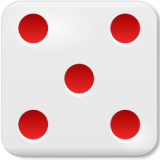
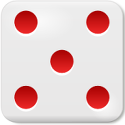
Additions: - added images new images to the Splash Screen UI. - the user is now able to simulate a die roll on the Gameplay Screen UI. - the user is now able to change maps on the Gameplay Screen UI.

diff --git a/src/journeythrougheurope/ui/JourneyThroughEuropeUI.java b/src/journeythrougheurope/ui/JourneyThroughEuropeUI.java
@@ -91,10 +91,9 @@ public class JourneyThroughEuropeUI extends Pane {
     private VBox leftPanel;
     private StackPane gamePanel;
     private Pane canvas;
-    private VBox gameOptionPane;
     private Image gameGridImage;
     private ImageView gameGridImageView;
-    private Label gameGridImageLabel;
+    private Label gameGridImageLabels[];
 
     private Button playerName;
     private StackPane cardPanel;
@@ -107,7 +106,7 @@ public class JourneyThroughEuropeUI extends Pane {
     private Button gridButtons[];
 
     private VBox diePanel;
-    private Button die;
+    private Button btnDie;
 
     //Stats Screen
     private HBox gameHistoryToolbar;
@@ -126,7 +125,9 @@ public class JourneyThroughEuropeUI extends Pane {
 
     public enum JourneyThroughEuropeUIState {
 
-        SPLASH_SCREEN_STATE, PLAY_GAME_STATE, VIEW_GAME_HISTORY_STATE, VIEW_ABOUT_STATE, GAME_SETUP_STATE
+        SPLASH_SCREEN_STATE, PLAY_GAME_STATE, VIEW_GAME_HISTORY_STATE, VIEW_ABOUT_STATE, GAME_SETUP_STATE,
+        GRID1_IMAGE_STATE, GRID2_IMAGE_STATE, GRID3_IMAGE_STATE, GRID4_IMAGE_STATE, DIE1_IMAGE_STATE, DIE2_IMAGE_STATE,
+        DIE3_IMAGE_STATE, DIE4_IMAGE_STATE, DIE5_IMAGE_STATE, DIE6_IMAGE_STATE
     }
 
     public JourneyThroughEuropeUI() {
@@ -225,10 +226,10 @@ public class JourneyThroughEuropeUI extends Pane {
         splashScreenImageLabel = new Label();
         splashScreenImageLabel.setGraphic(splashScreenImageView);
 
-        btnStart = new Button("Start");
-        btnLoad = new Button("Load");
-        btnAbout = new Button("About");
-        btnExit = new Button("Exit");
+        btnStart = initButton(JourneyThroughEuropePropertyType.START_IMAGE_NAME);
+        btnLoad = initButton(JourneyThroughEuropePropertyType.LOAD_IMG_NAME);
+        btnAbout = initButton(JourneyThroughEuropePropertyType.ABOUT_SPLASH_IMG_NAME);
+        btnExit = initButton(JourneyThroughEuropePropertyType.EXIT_IMG_NAME);
 
         btnStart.setOnAction(new EventHandler<ActionEvent>() {
 
@@ -346,18 +347,15 @@ public class JourneyThroughEuropeUI extends Pane {
 
     private void initGameScreen() {
 
-        PropertiesManager props = PropertiesManager.getPropertiesManager();
-        String gameGridImagePath = props.getProperty(JourneyThroughEuropePropertyType.GAME_GRID1_IMAGE_NAME);
-
-        gameGridImage = loadImage(gameGridImagePath);
-        gameGridImageView = new ImageView(gameGridImage);
-
-        gameGridImageLabel = new Label();
-        gameGridImageLabel.setGraphic(gameGridImageView);
+        gameGridImageLabels = new Label[4];
+        gameGridImageLabels[0] = initLabel(JourneyThroughEuropePropertyType.GAME_GRID1_IMAGE_NAME);
+        gameGridImageLabels[1] = initLabel(JourneyThroughEuropePropertyType.GAME_GRID2_IMAGE_NAME);
+        gameGridImageLabels[2] = initLabel(JourneyThroughEuropePropertyType.GAME_GRID3_IMAGE_NAME);
+        gameGridImageLabels[3] = initLabel(JourneyThroughEuropePropertyType.GAME_GRID4_IMAGE_NAME);
 
         gamePanel = new StackPane();
         gamePanel.setStyle("-fx-border-color:black;" + "-fx-border-width: 2px;");
-        gamePanel.getChildren().add(gameGridImageLabel);
+        gamePanel.getChildren().add(gameGridImageLabels[0]);
         //gameGridImageView.fitWidthProperty().bind(gamePanel.widthProperty());
         //gameGridImageView.fitHeightProperty().bind(gamePanel.heightProperty());
 
@@ -417,7 +415,7 @@ public class JourneyThroughEuropeUI extends Pane {
 
         VBox mapNumberPanel = new VBox();
         gridButtonsSecondColumnBox.setAlignment(Pos.CENTER);
-        mapNumberPanel.setPadding(new Insets(60,5,0, 0));
+        mapNumberPanel.setPadding(new Insets(60, 5, 0, 0));
         mapNumberPanel.setSpacing(30.0);
         Label lblOneThroughFour = initLabel(JourneyThroughEuropePropertyType.F4_IMAGE_NAME);
         Label lblFiveThroughEight = initLabel(JourneyThroughEuropePropertyType.F8_IMAGE_NAME);
@@ -428,9 +426,44 @@ public class JourneyThroughEuropeUI extends Pane {
 
         gridButtons = new Button[4];
         gridButtons[0] = initButton(JourneyThroughEuropePropertyType.GRID1_BUTTON_IMAGE_NAME);
+        gridButtons[0].setOnAction(new EventHandler<ActionEvent>() {
+
+            @Override
+            public void handle(ActionEvent event) {
+
+                eventHandler.respondToChangeGridRequest(JourneyThroughEuropeUIState.GRID1_IMAGE_STATE);
+            }
+        });
+
         gridButtons[1] = initButton(JourneyThroughEuropePropertyType.GRID2_BUTTON_IMAGE_NAME);
+        gridButtons[1].setOnAction(new EventHandler<ActionEvent>() {
+
+            @Override
+            public void handle(ActionEvent event) {
+
+                eventHandler.respondToChangeGridRequest(JourneyThroughEuropeUIState.GRID2_IMAGE_STATE);
+            }
+        });
+
         gridButtons[2] = initButton(JourneyThroughEuropePropertyType.GRID3_BUTTON_IMAGE_NAME);
+        gridButtons[2].setOnAction(new EventHandler<ActionEvent>() {
+
+            @Override
+            public void handle(ActionEvent event) {
+
+                eventHandler.respondToChangeGridRequest(JourneyThroughEuropeUIState.GRID3_IMAGE_STATE);
+            }
+        });
+
         gridButtons[3] = initButton(JourneyThroughEuropePropertyType.GRID4_BUTTON_IMAGE_NAME);
+        gridButtons[3].setOnAction(new EventHandler<ActionEvent>() {
+
+            @Override
+            public void handle(ActionEvent event) {
+
+                eventHandler.respondToChangeGridRequest(JourneyThroughEuropeUIState.GRID4_IMAGE_STATE);
+            }
+        });
 
         gridButtonsFirstColumnBox.getChildren().addAll(gridButtons[0], gridButtons[2]);
         gridButtonsSecondColumnBox.getChildren().addAll(gridButtons[1], gridButtons[3]);
@@ -439,9 +472,18 @@ public class JourneyThroughEuropeUI extends Pane {
         diePanel.setAlignment(Pos.CENTER);
         diePanel.setPadding(new Insets(30, 0, 50, 30));
 
-        die = this.initButton(JourneyThroughEuropePropertyType.DEFAULT_DIE_IMAGE_NAME);
+        btnDie = this.initButton(JourneyThroughEuropePropertyType.DEFAULT_DIE_IMAGE_NAME);
+        btnDie.setOnAction(new EventHandler<ActionEvent>() {
+
+            @Override
+            public void handle(ActionEvent event) {
+
+                eventHandler.respondToRollRequest();
+            }
+        });
+
         Label lblRollDie = this.initLabel(JourneyThroughEuropePropertyType.ROLL_DIE_IMAGE_NAME);
-        diePanel.getChildren().addAll(lblRollDie, die);
+        diePanel.getChildren().addAll(lblRollDie, btnDie);
         diePanel.setSpacing(5.0);
 
         HBox gridButtonsContainer = new HBox();
@@ -477,7 +519,7 @@ public class JourneyThroughEuropeUI extends Pane {
     private void initGameHistoryScreen() {
 
         gameHistoryToolbar = new HBox();
-        btnGame = initToolbarButton(gameHistoryToolbar, JourneyThroughEuropePropertyType.GAME_IMG_NAME);
+        btnGame = initButton(JourneyThroughEuropePropertyType.GAME_IMG_NAME);
         btnGame.setOnAction(new EventHandler<ActionEvent>() {
 
             @Override
@@ -513,6 +555,8 @@ public class JourneyThroughEuropeUI extends Pane {
         gameHistoryScrollPaneFX.setFitToHeight(true);
         gameHistoryScrollPaneFX.setFitToWidth(true);
 
+        gameHistoryToolbar.getChildren().add(btnGame);
+
         gameHistoryScreenContainer.setTop(gameHistoryToolbar);
         gameHistoryScreenContainer.setCenter(gameHistoryScrollPaneFX);
 
@@ -546,6 +590,54 @@ public class JourneyThroughEuropeUI extends Pane {
         mainPane.setCenter(workspace);
     }
 
+    public void changeGridImage(JourneyThroughEuropeUIState gridImageState) {
+        switch (gridImageState) {
+            case GRID1_IMAGE_STATE:
+                gamePanel.getChildren().clear();
+                gamePanel.getChildren().add(gameGridImageLabels[0]);
+                gamePanel.getChildren().add(canvas);
+                break;
+            case GRID2_IMAGE_STATE:
+                gamePanel.getChildren().clear();
+                gamePanel.getChildren().add(gameGridImageLabels[1]);
+                gamePanel.getChildren().add(canvas);
+                break;
+            case GRID3_IMAGE_STATE:
+                gamePanel.getChildren().clear();
+                gamePanel.getChildren().add(gameGridImageLabels[2]);
+                gamePanel.getChildren().add(canvas);
+                break;
+            case GRID4_IMAGE_STATE:
+                gamePanel.getChildren().clear();
+                gamePanel.getChildren().add(gameGridImageLabels[3]);
+                gamePanel.getChildren().add(canvas);
+                break;
+        }
+    }
+
+    public void changeDieImage(JourneyThroughEuropeUIState dieImageState) {
+        switch (dieImageState) {
+            case DIE1_IMAGE_STATE:
+                btnDie.setGraphic(setupImageView(JourneyThroughEuropePropertyType.DIE1_IMAGE_NAME));
+                break;
+            case DIE2_IMAGE_STATE:
+                btnDie.setGraphic(setupImageView(JourneyThroughEuropePropertyType.DIE2_IMAGE_NAME));
+                break;
+            case DIE3_IMAGE_STATE:
+                btnDie.setGraphic(setupImageView(JourneyThroughEuropePropertyType.DIE3_IMAGE_NAME));
+                break;
+            case DIE4_IMAGE_STATE:
+                btnDie.setGraphic(setupImageView(JourneyThroughEuropePropertyType.DIE4_IMAGE_NAME));
+                break;
+            case DIE5_IMAGE_STATE:
+                btnDie.setGraphic(setupImageView(JourneyThroughEuropePropertyType.DIE5_IMAGE_NAME));
+                break;
+            case DIE6_IMAGE_STATE:
+                btnDie.setGraphic(setupImageView(JourneyThroughEuropePropertyType.DIE6_IMAGE_NAME));
+                break;
+        }
+    }
+
     public void loadPage(JEditorPane jep, JourneyThroughEuropePropertyType fileProperty) {
         // GET THE FILE NAME
         PropertiesManager props = PropertiesManager.getPropertiesManager();
@@ -559,28 +651,17 @@ public class JourneyThroughEuropeUI extends Pane {
         }
     }
 
-    private Button initToolbarButton(HBox toolbar, JourneyThroughEuropePropertyType prop) {
-        // GET THE NAME OF THE IMAGE, WE DO THIS BECAUSE THE
-        // IMAGES WILL BE NAMED DIFFERENT THINGS FOR DIFFERENT LANGUAGES
-        PropertiesManager props = PropertiesManager.getPropertiesManager();
+    public ImageView setupImageView(JourneyThroughEuropePropertyType prop)
+    {
+           PropertiesManager props = PropertiesManager.getPropertiesManager();
         String imageName = props.getProperty(prop);
 
         // LOAD THE IMAGE
         Image image = loadImage(imageName);
         ImageView imageIcon = new ImageView(image);
-
-        // MAKE THE BUTTON
-        Button button = new Button();
-        button.setGraphic(imageIcon);
-        button.setPadding(marginlessInsets);
-
-        // PUT IT IN THE TOOLBAR
-        toolbar.getChildren().add(button);
-
-        // AND SEND BACK THE BUTTON
-        return button;
+        
+        return imageIcon;
     }
-
     public Button initButton(JourneyThroughEuropePropertyType prop) {
         PropertiesManager props = PropertiesManager.getPropertiesManager();
         String imageName = props.getProperty(prop);
@@ -595,8 +676,8 @@ public class JourneyThroughEuropeUI extends Pane {
 
         return button;
     }
-    
-     public Label initLabel(JourneyThroughEuropePropertyType prop) {
+
+    public Label initLabel(JourneyThroughEuropePropertyType prop) {
         PropertiesManager props = PropertiesManager.getPropertiesManager();
         String imageName = props.getProperty(prop);
 
@@ -686,6 +767,7 @@ public class JourneyThroughEuropeUI extends Pane {
         mouseHandler = new JourneyThroughEuropeMouseHandler(gameManager, primaryStage);
         setGameToScreen(gameManager);
         canvas.setOnMouseClicked(mouseHandler);
+        canvas.setOnMouseDragged(mouseHandler);
     }
 
 }

diff --git a/src/journeythrougheurope/ui/JourneyThroughEuropeEventHandler.java b/src/journeythrougheurope/ui/JourneyThroughEuropeEventHandler.java
@@ -32,25 +32,24 @@ public class JourneyThroughEuropeEventHandler {
     }
 
     public void respondToSwitchScreenRequest(JourneyThroughEuropeUI.JourneyThroughEuropeUIState uiState) {
-       ui.changeWorkspace(uiState);
+        ui.changeWorkspace(uiState);
     }
 
     public void respondToStartGameRequest(JourneyThroughEuropeUI.JourneyThroughEuropeUIState uiState) {
         ui.changeWorkspace(uiState);
-       ui.testClick();
+        ui.testClick();
     }
 
     public void respondToLoadGameRequest() {
 
     }
-    
-    public void respondToGameHistoryRequest(JourneyThroughEuropeUI.JourneyThroughEuropeUIState uiState)
-    {
+
+    public void respondToGameHistoryRequest(JourneyThroughEuropeUI.JourneyThroughEuropeUIState uiState) {
         ui.changeWorkspace(uiState);
     }
 
     public void respondToExitGameRequest(Stage primaryStage) {
-       String options[] = new String[]{
+        String options[] = new String[]{
             "Yes", "No"
         };
         PropertiesManager props = PropertiesManager.getPropertiesManager();
@@ -105,7 +104,6 @@ public class JourneyThroughEuropeEventHandler {
         btnYes.setOnAction(buttonEvent -> {
             System.exit(0);
         });
-        
 
         btnNo.setOnAction(buttonEvent -> {
             // Closes the stage when the user's decision is "No".
@@ -115,23 +113,43 @@ public class JourneyThroughEuropeEventHandler {
     }
 
     public void respondToRollRequest() {
-
+        int roll = (int) ((Math.random() * 6) + 1);
+        System.out.println(roll);
+        switch (roll) {
+            case 1:
+                ui.changeDieImage(JourneyThroughEuropeUI.JourneyThroughEuropeUIState.DIE1_IMAGE_STATE);
+                break;
+            case 2:
+                ui.changeDieImage(JourneyThroughEuropeUI.JourneyThroughEuropeUIState.DIE2_IMAGE_STATE);
+                break;
+            case 3:
+                ui.changeDieImage(JourneyThroughEuropeUI.JourneyThroughEuropeUIState.DIE3_IMAGE_STATE);
+                break;
+            case 4:
+                ui.changeDieImage(JourneyThroughEuropeUI.JourneyThroughEuropeUIState.DIE4_IMAGE_STATE);
+                break;
+            case 5:
+                ui.changeDieImage(JourneyThroughEuropeUI.JourneyThroughEuropeUIState.DIE5_IMAGE_STATE);
+                break;
+            case 6:
+                ui.changeDieImage(JourneyThroughEuropeUI.JourneyThroughEuropeUIState.DIE6_IMAGE_STATE);
+                break;
+        }
     }
 
     public void respondToStartRequest() {
-      respondToSwitchScreenRequest(JourneyThroughEuropeUI.JourneyThroughEuropeUIState.GAME_SETUP_STATE);
+        respondToSwitchScreenRequest(JourneyThroughEuropeUI.JourneyThroughEuropeUIState.GAME_SETUP_STATE);
     }
 
-    public void respondToChangeMapGridRequest() {
-
+    public void respondToChangeGridRequest(JourneyThroughEuropeUI.JourneyThroughEuropeUIState gameImageState) {
+        ui.changeGridImage(gameImageState);
     }
 
     public void respondToShowWinDialogRequest(Stage primaryStage) {
 
     }
-    
-    public void respondToChangeNumberOfPlayersRequest(int numPlayers)
-    {
+
+    public void respondToChangeNumberOfPlayersRequest(int numPlayers) {
         ui.disablePlayerGridPanes();
         ui.enablePlayerGridPanes(numPlayers);
     }

diff --git a/src/journeythrougheurope/application/Main.java b/src/journeythrougheurope/application/Main.java
@@ -58,12 +58,13 @@ public class Main extends Application {
         /* WINDOW DIMENSIONS */
         WINDOW_WIDTH, WINDOW_HEIGHT,
         /* LEVEL OPTIONS PROPERTIES */
-        LEVEL_OPTIONS, LEVEL_FILES, GAME_GRID1_IMAGE_NAME,
+        LEVEL_OPTIONS, LEVEL_FILES, 
         /* GAME TEXT */
         SPLASH_SCREEN_TITLE_TEXT, GAME_TITLE_TEXT, GAME_SUBHEADER_TEXT, WIN_DISPLAY_TEXT, LOSE_DISPLAY_TEXT, GAME_RESULTS_TEXT, GUESS_LABEL, LETTER_OPTIONS, EXIT_REQUEST_TEXT, YES_TEXT, NO_TEXT, DEFAULT_YES_TEXT, DEFAULT_NO_TEXT, DEFAULT_EXIT_TEXT,
         /* IMAGE FILE NAMES */
-        WINDOW_ICON, SPLASH_SCREEN_IMAGE_NAME, GAME_IMG_NAME, GAME_HISTORY_IMG_NAME, HELP_IMG_NAME, EXIT_IMG_NAME, NEW_GAME_IMG_NAME, HOME_IMG_NAME,GRID1_BUTTON_IMAGE_NAME,GRID2_BUTTON_IMAGE_NAME,GRID3_BUTTON_IMAGE_NAME,GRID4_BUTTON_IMAGE_NAME,AC_IMAGE_NAME,
-        DF_IMAGE_NAME,F4_IMAGE_NAME,F8_IMAGE_NAME,DIE1_IMAGE_NAME,DIE2_IMAGE_NAME,DIE3_IMAGE_NAME,DIE4_IMAGE_NAME,DIE5_IMAGE_NAME,DIE6_IMAGE_NAME,DEFAULT_DIE_IMAGE_NAME,ROLL_DIE_IMAGE_NAME,GAME_HISTORY_IMAGE_NAME,ABOUT_IMAGE_NAME,
+        WINDOW_ICON, SPLASH_SCREEN_IMAGE_NAME, GAME_IMG_NAME,GAME_GRID1_IMAGE_NAME,GAME_GRID2_IMAGE_NAME, GAME_GRID3_IMAGE_NAME, GAME_GRID4_IMAGE_NAME,GAME_HISTORY_IMG_NAME, HELP_IMG_NAME, EXIT_IMG_NAME, NEW_GAME_IMG_NAME, HOME_IMG_NAME,GRID1_BUTTON_IMAGE_NAME,GRID2_BUTTON_IMAGE_NAME,GRID3_BUTTON_IMAGE_NAME,GRID4_BUTTON_IMAGE_NAME,AC_IMAGE_NAME,
+        DF_IMAGE_NAME,F4_IMAGE_NAME,F8_IMAGE_NAME,DIE1_IMAGE_NAME,DIE2_IMAGE_NAME,DIE3_IMAGE_NAME,DIE4_IMAGE_NAME,DIE5_IMAGE_NAME,DIE6_IMAGE_NAME,DEFAULT_DIE_IMAGE_NAME,ROLL_DIE_IMAGE_NAME,GAME_HISTORY_IMAGE_NAME,ABOUT_IMAGE_NAME,START_IMAGE_NAME,ABOUT_SPLASH_IMG_NAME,
+        LOAD_IMG_NAME,
                 
         /* DATA FILE STUFF */
         GAME_FILE_NAME, GAME_HISTORY_FILE_NAME, ABOUT_FILE_NAME,

diff --git a/src/journeythrougheurope/ui/JourneyThroughEuropeMouseHandler.java b/src/journeythrougheurope/ui/JourneyThroughEuropeMouseHandler.java
@@ -30,13 +30,14 @@ public class JourneyThroughEuropeMouseHandler  implements EventHandler<MouseEven
        switch (event.getEventType().toString()) {
             case "MOUSE_CLICKED":
                 System.out.println("X: " +event.getX() + "     Y: " + event.getY());
-                System.out.println("Width:" + stage.getWidth() + "Height:" +stage.getHeight());
                 gameManager.repaint(event.getX(),event.getY());
                 
                 break;
             case "MOUSE_RELEASED":
                 break;
             case "MOUSE_DRAGGED":
+                System.out.println("X: " +event.getX() + "     Y: " + event.getY());
+                gameManager.repaint(event.getX(),event.getY());
                 break;
         }
     
